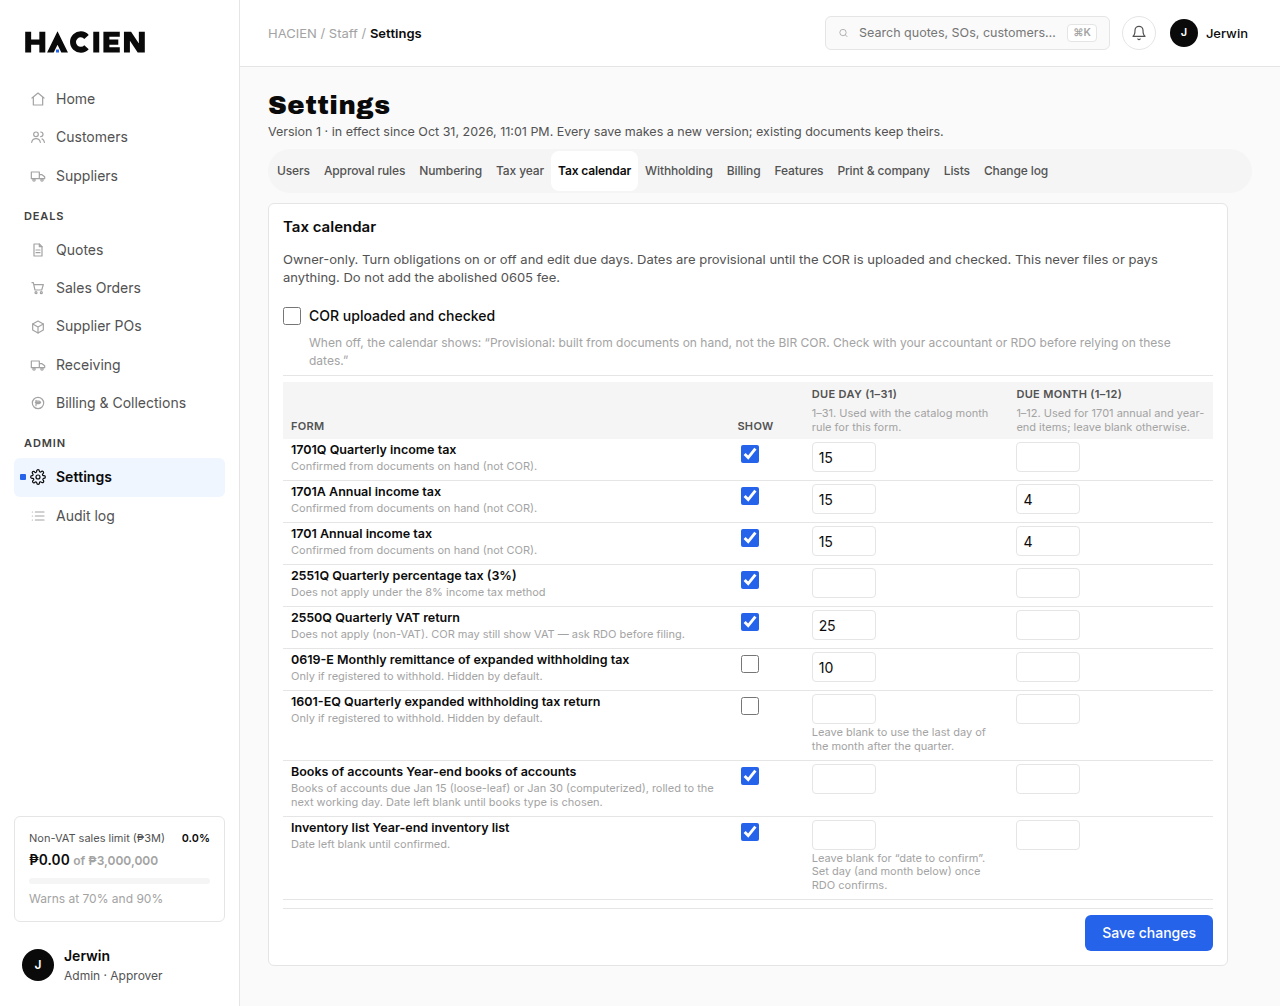
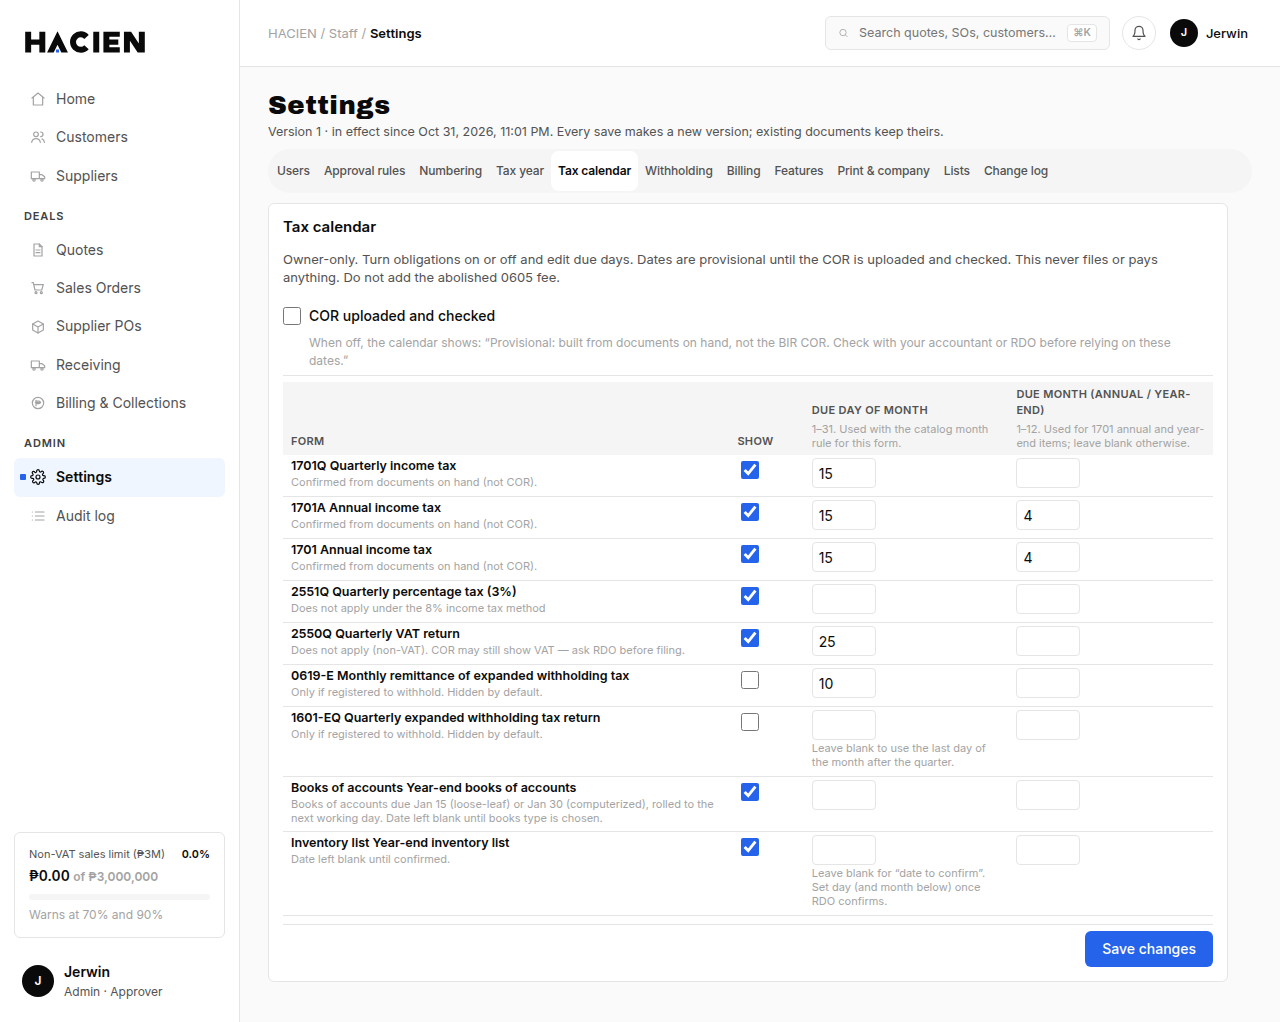
Settings pass 9: refresh tax-calendar shots after label restore
tax-calendar 1280 → 1022px (ranges moved into hints; headers use main
wording). print unchanged at 1167 / 1659; scrollWidth 360.

diff --git a/docs/screenshots/settings-layout-08/README.md b/docs/screenshots/settings-layout-08/README.md
@@ -8,7 +8,7 @@ Local throwaway DB only (`jerwin@example.com` seed). Full-page shots at real pag
 | approval | 900 | 900 | 360 |
 | numbering | 960 | 1583 | 360 |
 | tax | 1139 | 1536 | 360 |
-| tax-calendar | 1006 | 2759 | 360 |
+| tax-calendar | 1022 | 2759 | 360 |
 | withholding | 900 | 1771 | 360 |
 | billing | 900 | 1012 | 360 |
 | features | 900 | 900 | 360 |
